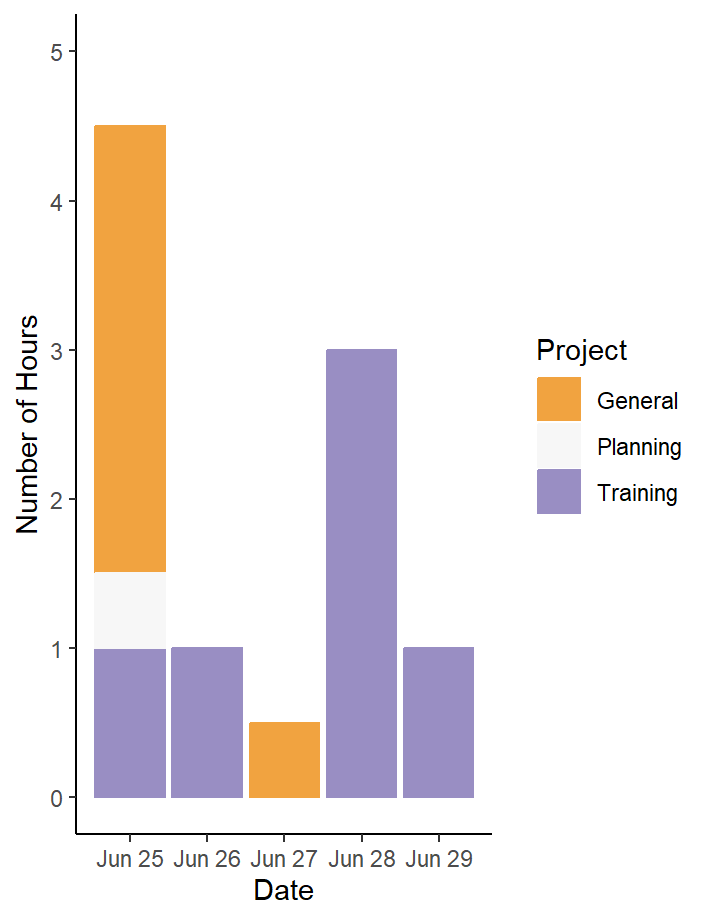
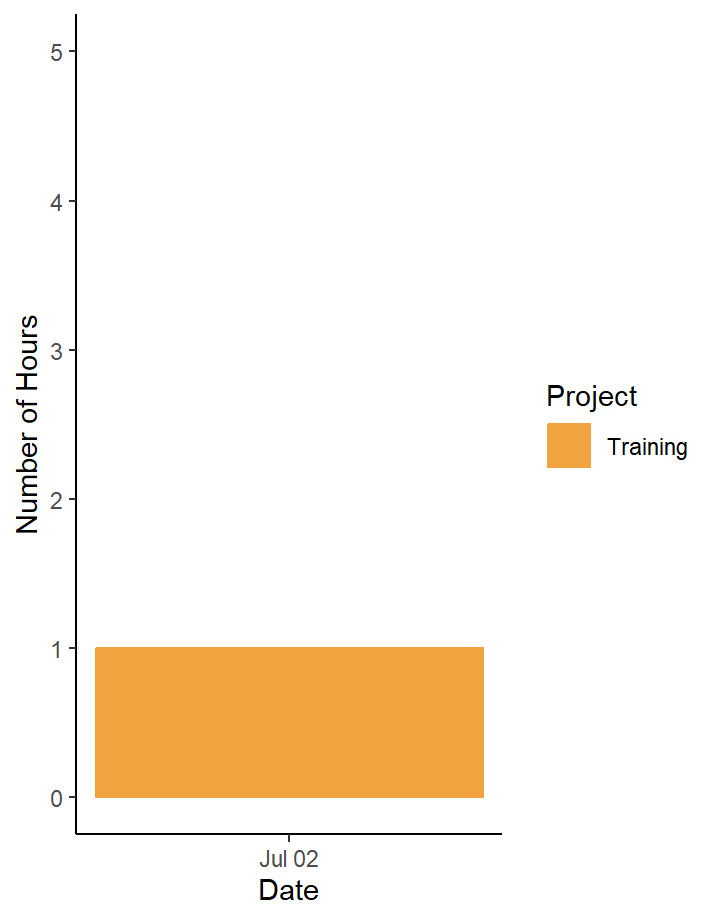
Tuesday

diff --git a/docs/index.html b/docs/index.html
@@ -1904,11 +1904,11 @@ class="section level3">
 </div>
 <table>
 <colgroup>
-<col width="9%" />
+<col width="13%" />
+<col width="14%" />
 <col width="10%" />
+<col width="54%" />
 <col width="7%" />
-<col width="67%" />
-<col width="5%" />
 </colgroup>
 <thead>
 <tr class="header">
@@ -1921,77 +1921,11 @@ class="section level3">
 </thead>
 <tbody>
 <tr class="odd">
-<td align="left">2024-06-25</td>
-<td align="left">Tuesday</td>
-<td align="left">General</td>
-<td align="left">Jennet &amp; Amanda - Meeting to touch base</td>
-<td align="right">1.0</td>
-</tr>
-<tr class="even">
-<td align="left">2024-06-25</td>
-<td align="left">Tuesday</td>
-<td align="left">General</td>
-<td align="left">Setup wuo Staff Account / HR Setup / Payroll Setup</td>
-<td align="right">1.0</td>
-</tr>
-<tr class="odd">
-<td align="left">2024-06-25</td>
-<td align="left">Tuesday</td>
-<td align="left">General</td>
-<td align="left">Build Time Tracking Tool</td>
-<td align="right">1.0</td>
-</tr>
-<tr class="even">
-<td align="left">2024-06-25</td>
+<td align="left">2024-07-02</td>
 <td align="left">Tuesday</td>
 <td align="left">Training</td>
-<td align="left">Lawson SOP training module</td>
-<td align="right">1.0</td>
-</tr>
-<tr class="odd">
-<td align="left">2024-06-25</td>
-<td align="left">Tuesday</td>
-<td align="left">Planning</td>
-<td align="left">Writing out meeting notes / plans</td>
-<td align="right">0.5</td>
-</tr>
-<tr class="even">
-<td align="left">2024-06-26</td>
-<td align="left">Wednesday</td>
-<td align="left">Training</td>
-<td align="left">TCPS Modules A1 - A9 (Certificate provided)</td>
-<td align="right">1.0</td>
-</tr>
-<tr class="odd">
-<td align="left">2024-06-27</td>
-<td align="left">Thursday</td>
-<td align="left">General</td>
-<td align="left">Emails, Setting up OneDrive syncing to PC (2FA
-etc.)</td>
-<td align="right">0.5</td>
-</tr>
-<tr class="even">
-<td align="left">2024-06-28</td>
-<td align="left">Friday</td>
-<td align="left">Training</td>
-<td align="left">Canada GCP - Stage 1 - Basic</td>
-<td align="right">2.0</td>
-</tr>
-<tr class="odd">
-<td align="left">2024-06-28</td>
-<td align="left">Friday</td>
-<td align="left">Training</td>
-<td align="left">Health Canada Division 5 - Drugs For Clinical Trials
-Involving Human Subjects</td>
-<td align="right">1.0</td>
-</tr>
-<tr class="even">
-<td align="left">2024-06-29</td>
-<td align="left">Saturday</td>
-<td align="left">Training</td>
-<td align="left">Responsible Conduct of Research - First half of
-module</td>
-<td align="right">1.0</td>
+<td align="left">Responsible Conduct of Research - Second half</td>
+<td align="right">1</td>
 </tr>
 </tbody>
 </table>
